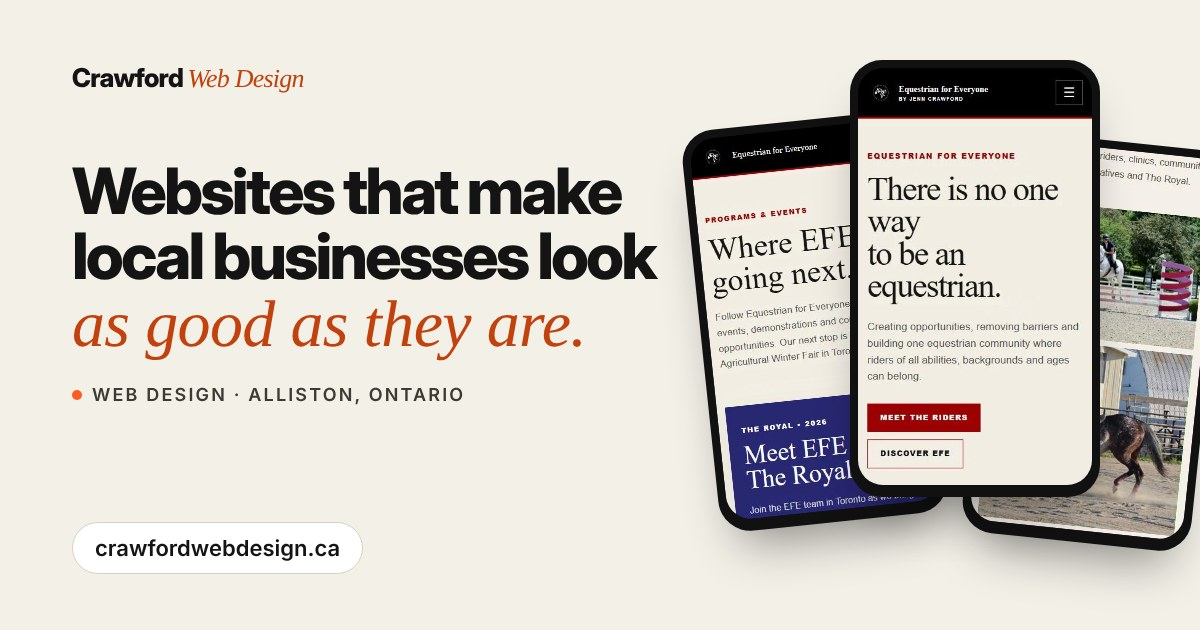
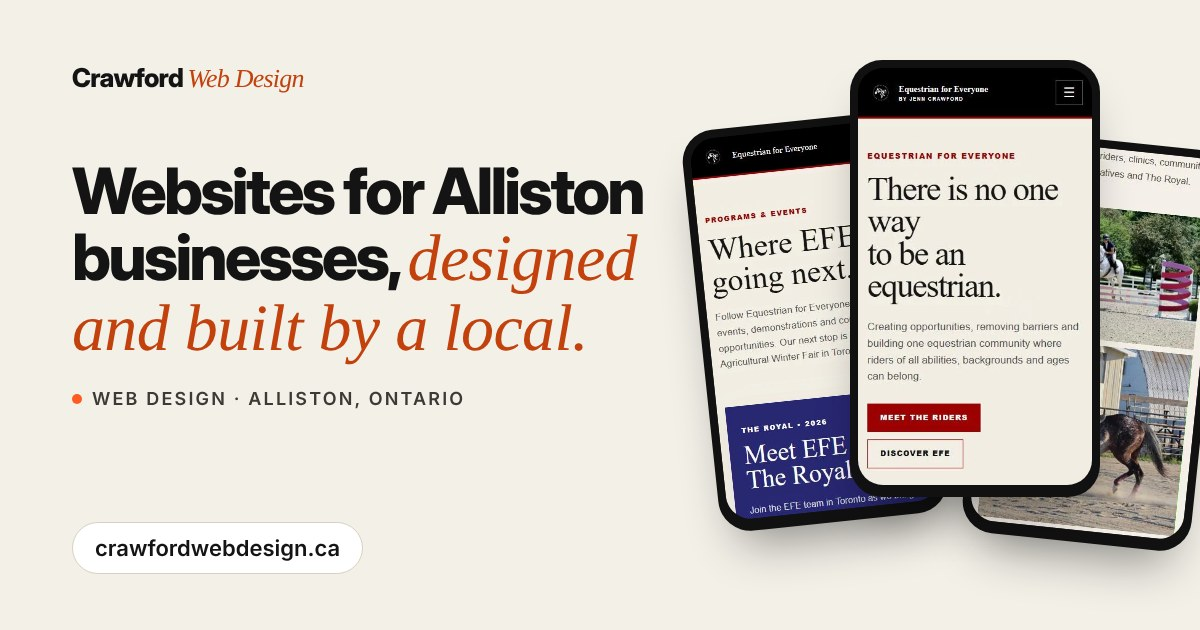
Update .20

Changed region(s): [[0.0617, 0.2413, 0.555, 0.573], [0.2158, 0.6032, 0.4008, 0.6635], [0.0617, 0.6032, 0.2158, 0.6635]]

diff --git a/index.html b/index.html
@@ -57,8 +57,8 @@
     <div class="wrap hero-grid">
       <div>
         <span class="eyebrow">Web design · Alliston, Ontario</span>
-        <h1>Websites that make local businesses look <span class="serif">as good as they are.</span></h1>
-        <p class="lead">I design and hand-build fast, custom websites for small businesses and organizations in Alliston, New Tecumseth and across Ontario. You work with me directly, from the first call to launch day.</p>
+        <h1>Websites for Alliston businesses, <span class="serif">designed and built by a local.</span></h1>
+        <p class="lead">Custom, hand-built websites for small businesses and organizations in Alliston, New Tecumseth and across Ontario. You work with me directly, from the first call to launch day.</p>
         <div class="actions">
           <a class="btn btn-dark" href="/contact.html">Start your project <span class="arrow">→</span></a>
           <a class="btn btn-line" href="/portfolio.html">See the work</a>
@@ -163,7 +163,7 @@
           <div class="label">Website refresh</div>
           <div class="amount">$500<small> starting</small></div>
           <p style="margin:0;color:var(--ink-2)">A modern redesign of your existing homepage. I'll review your current setup first.</p>
-          <ul><li>New homepage design</li><li>Clearer calls to action</li><li>Faster on mobile</li></ul>
+          <ul><li>New homepage design</li><li>Clearer calls to action</li><li>Better on phones</li></ul>
           <a class="btn btn-line" href="/contact.html">Request a quote</a>
         </div>
       </div>
@@ -198,8 +198,8 @@
 
   <!-- ABOUT -->
   <section class="sec" id="about" style="padding-top:20px">
-    <div class="wrap about">
-      <img class="portrait reveal" src="ryan.webp" alt="Ryan, designer at Crawford Web Design" width="800" height="1000" loading="lazy">
+    <div class="wrap about no-photo">
+      <!-- Photo removed for now. To add one back: <img class="portrait reveal" src="ryan.webp" alt="Ryan, designer at Crawford Web Design" width="800" height="1000" loading="lazy"> and remove the "no-photo" class below. -->
       <div class="reveal">
         <span class="eyebrow">About</span>
         <h2>Hi, I'm Ryan. <span class="serif">Nice to meet you.</span></h2>

diff --git a/services.html b/services.html
@@ -121,7 +121,7 @@
           <div class="label">Website refresh</div>
           <div class="amount">$500<small> starting</small></div>
           <p style="margin:0;color:var(--ink-2)">A modern redesign of your existing homepage. I'll review your current setup first.</p>
-          <ul><li>New homepage design</li><li>Clearer calls to action</li><li>Faster on mobile</li></ul>
+          <ul><li>New homepage design</li><li>Clearer calls to action</li><li>Better on phones</li></ul>
           <a class="btn btn-line" href="/contact.html">Request a quote</a>
         </div>
       </div>

diff --git a/styles.css b/styles.css
@@ -317,3 +317,5 @@ summary{min-height:44px;align-items:center;padding:6px 0}
 .field-err{color:#b42318;font-size:.85rem;font-weight:500}
 .field [aria-invalid="true"]{border-color:#b42318;background:#fff}
 .logo i{margin-left:.28em}
+.hero h1{font-size:clamp(2.5rem,4.4vw,4.1rem)}
+.about.no-photo{grid-template-columns:1fr}.about.no-photo .promises{max-width:860px}
